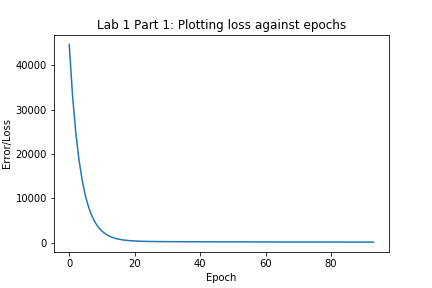
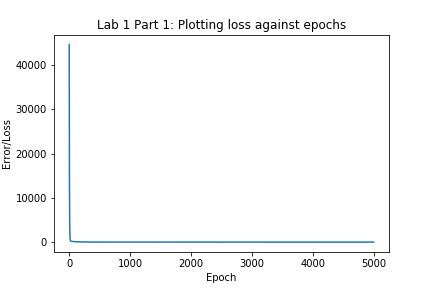
Epochs
Added epochs terminating condition

diff --git a/LAB1/a1/starter.py b/LAB1/a1/starter.py
@@ -51,15 +51,16 @@ def grad_descent(W, b, trainingData, trainingLabels, alpha, iterations, reg, EPS
     errorList = []
     error = MSE(W,b,trainingData,trainingLabels,reg)
     errorList.append(error)
-    while( error > EPS):
+    it = 1
+    while( error > EPS and it < iterations):
         # idk if this syntax is right gotta go check later
-        print(error)
+        print(it, ":", error)
         gradW, gradB = gradMSE(W,b,trainingData,trainingLabels,reg)
         W = np.subtract(W,alpha*gradW)
         b = b - alpha*gradB
         error = MSE(W,b,trainingData,trainingLabels,reg)
         errorList.append(error)
-        
+        it = it +1
     return errorList
 
 def buildGraph(beta1=None, beta2=None, epsilon=None, lossType=None, learning_rate=None):
